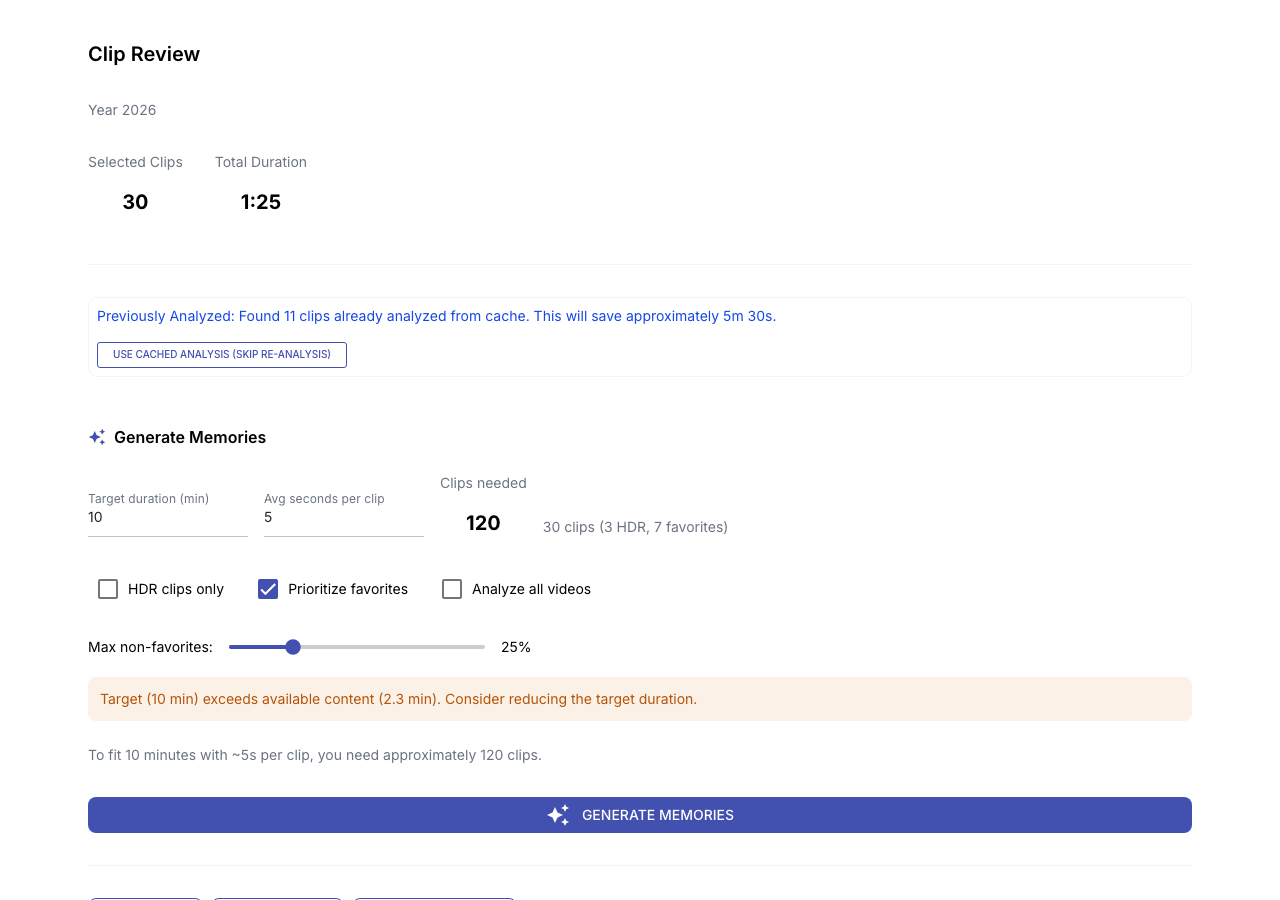
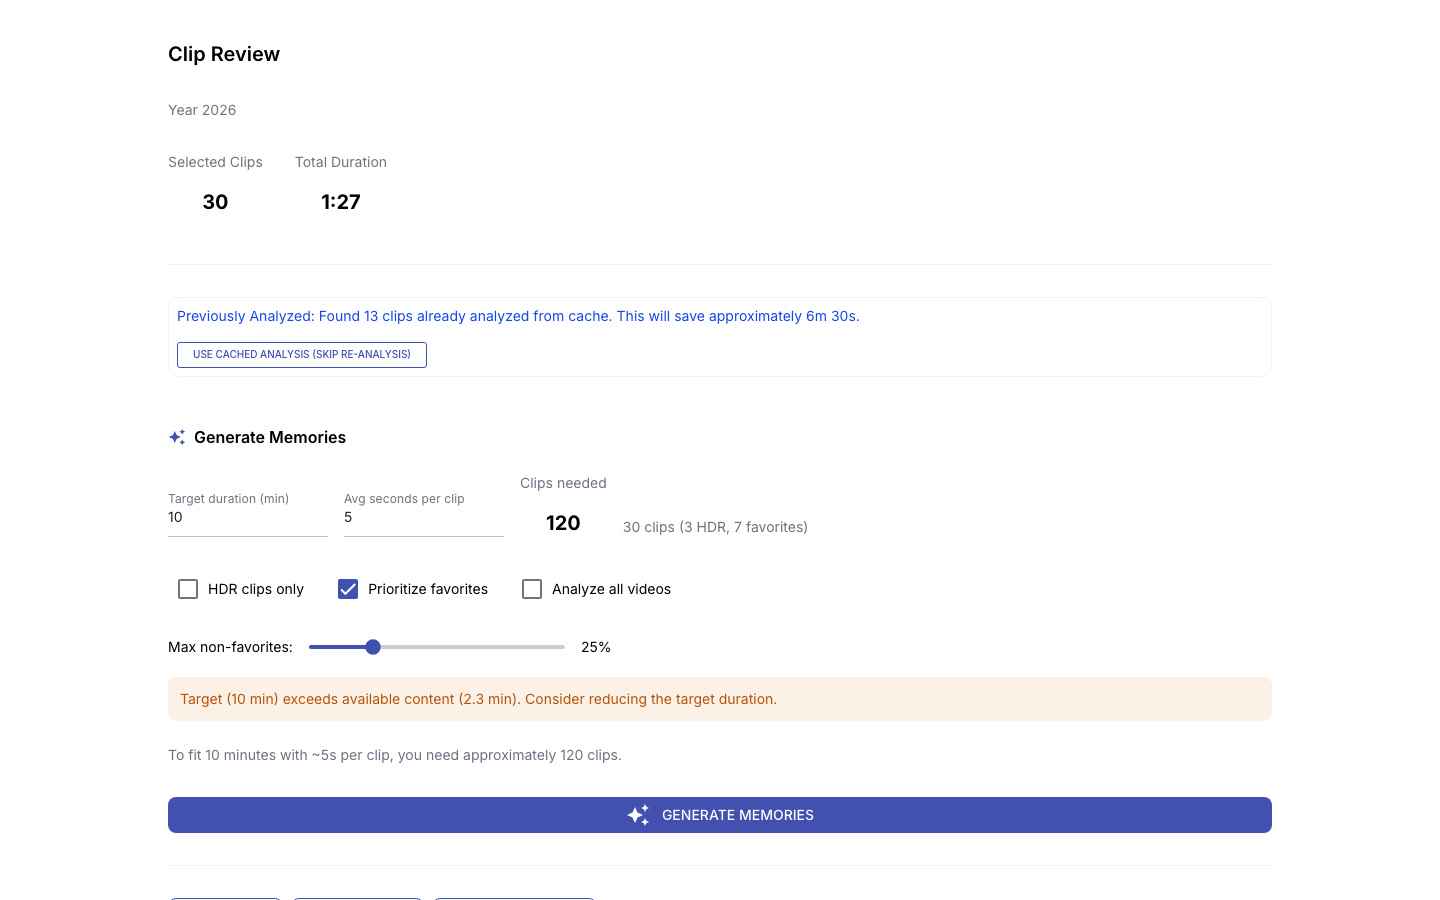
fix(e2e): hide demo toggle from screenshots + widen viewport to 1440px
- Remove ENABLE_DEMO_MODE env var from server startup — the toggle
  was appearing in all screenshots. Demo blur is injected via JS only.
- Widen viewport from 1280 to 1440px so sidebar doesn't overlap content.
- Clean up 60 duplicate progress PNGs from generation test.

diff --git a/tests/e2e/conftest.py b/tests/e2e/conftest.py
@@ -45,7 +45,8 @@ def app_url() -> Generator[str, None, None]:
         if not k.startswith("NICEGUI_") and k != "PYTEST_CURRENT_TEST"
     }
     env["IMMICH_MEMORIES_AUTH__ENABLED"] = "false"
-    env["IMMICH_MEMORIES_SERVER__ENABLE_DEMO_MODE"] = "true"
+    # Don't enable demo mode via config — we inject the CSS class directly
+    # in enable_demo_mode(). The toggle would show in screenshots otherwise.
     env["COVERAGE_FILE"] = str(_SERVER_COVERAGE_FILE)
 
     venv_bin = _REPO_ROOT / ".venv" / "bin"
@@ -85,7 +86,7 @@ def app_url() -> Generator[str, None, None]:
 @pytest.fixture(scope="session")
 def browser_context_args() -> dict:
     """Override pytest-playwright default viewport to match screenshot size."""
-    return {"viewport": {"width": 1280, "height": 900}}
+    return {"viewport": {"width": 1440, "height": 900}}
 
 
 @pytest.fixture(scope="session")

diff --git a/tests/e2e/test_full_generation.py b/tests/e2e/test_full_generation.py
@@ -42,7 +42,6 @@ def gen_server_url():
             if not k.startswith("NICEGUI_") and k != "PYTEST_CURRENT_TEST"
         }
         env["IMMICH_MEMORIES_AUTH__ENABLED"] = "false"
-        env["IMMICH_MEMORIES_SERVER__ENABLE_DEMO_MODE"] = "true"
         env["IMMICH_MEMORIES_CACHE__DATABASE"] = f"{tmpdir}/fresh-cache.db"
         env["IMMICH_MEMORIES_CACHE__DIRECTORY"] = f"{tmpdir}/cache"
         env["IMMICH_MEMORIES_DEFAULTS__TARGET_DURATION"] = "1"
